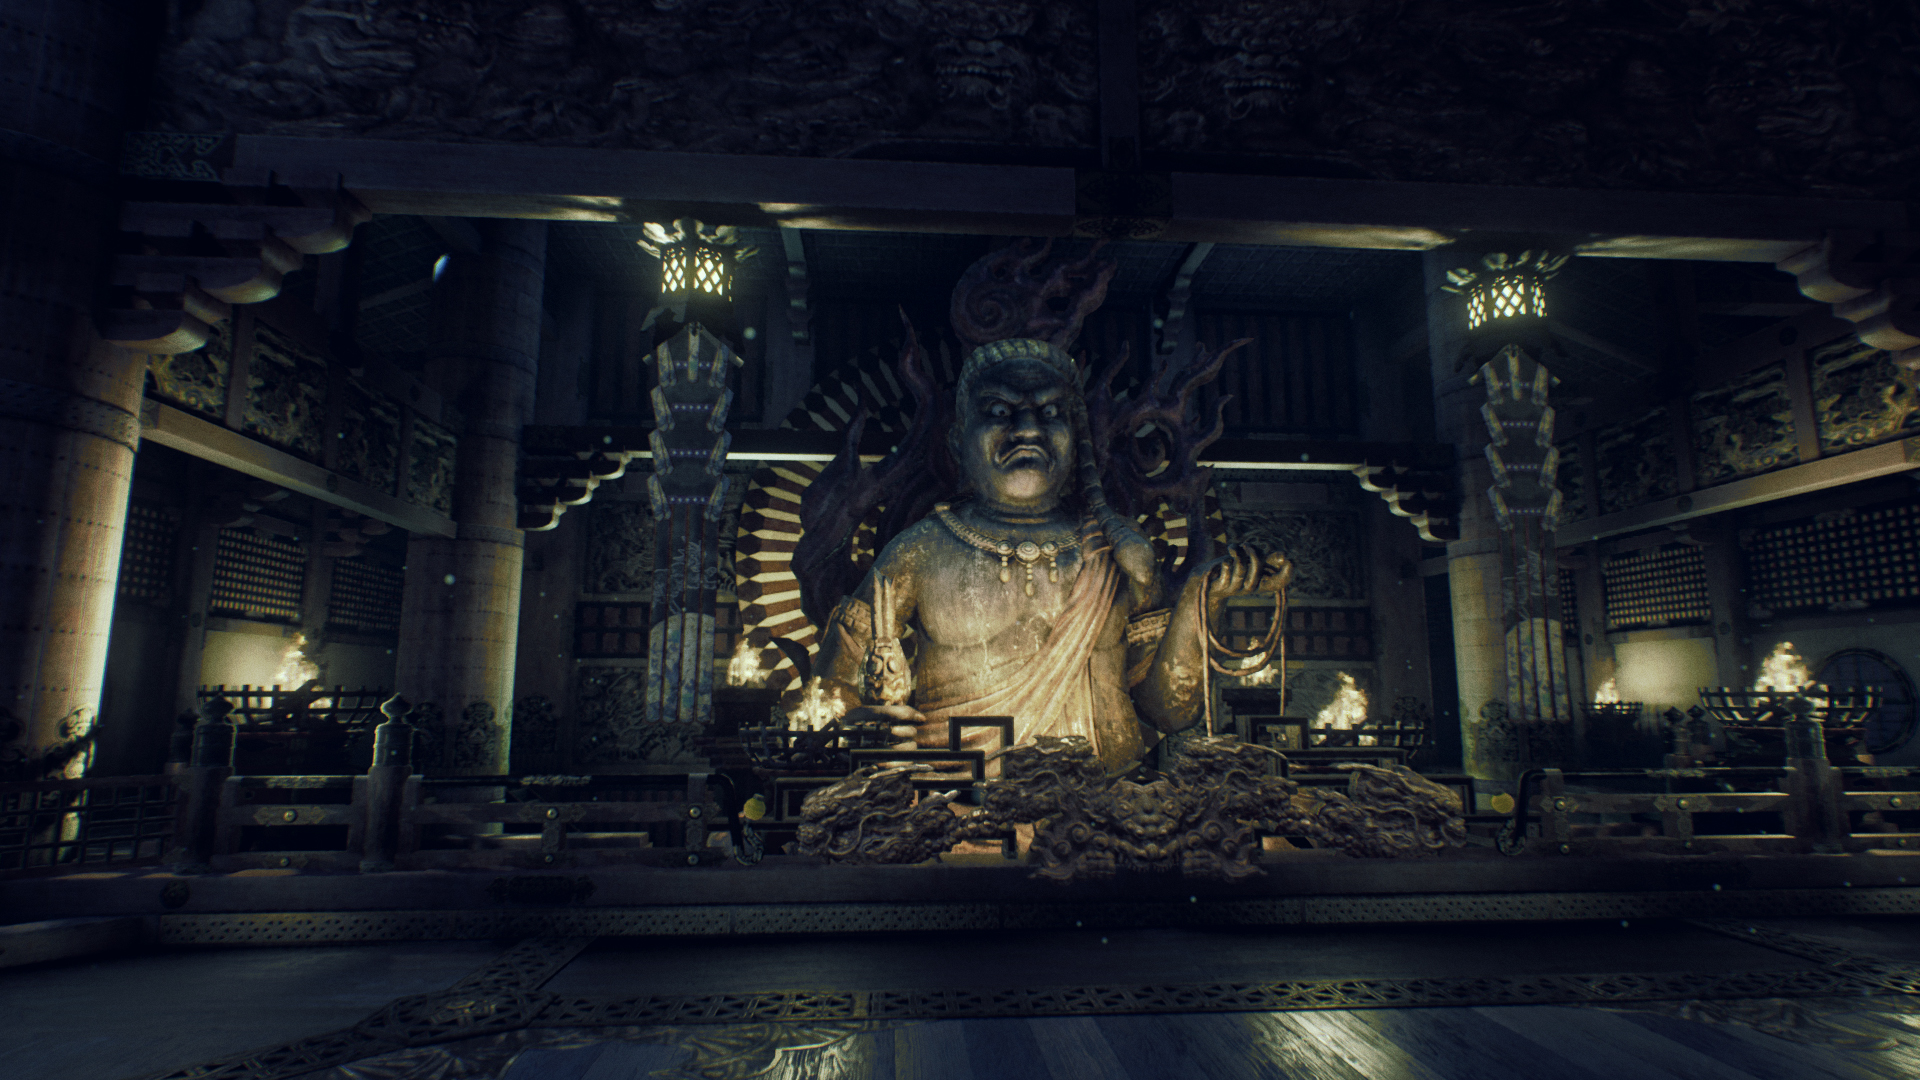
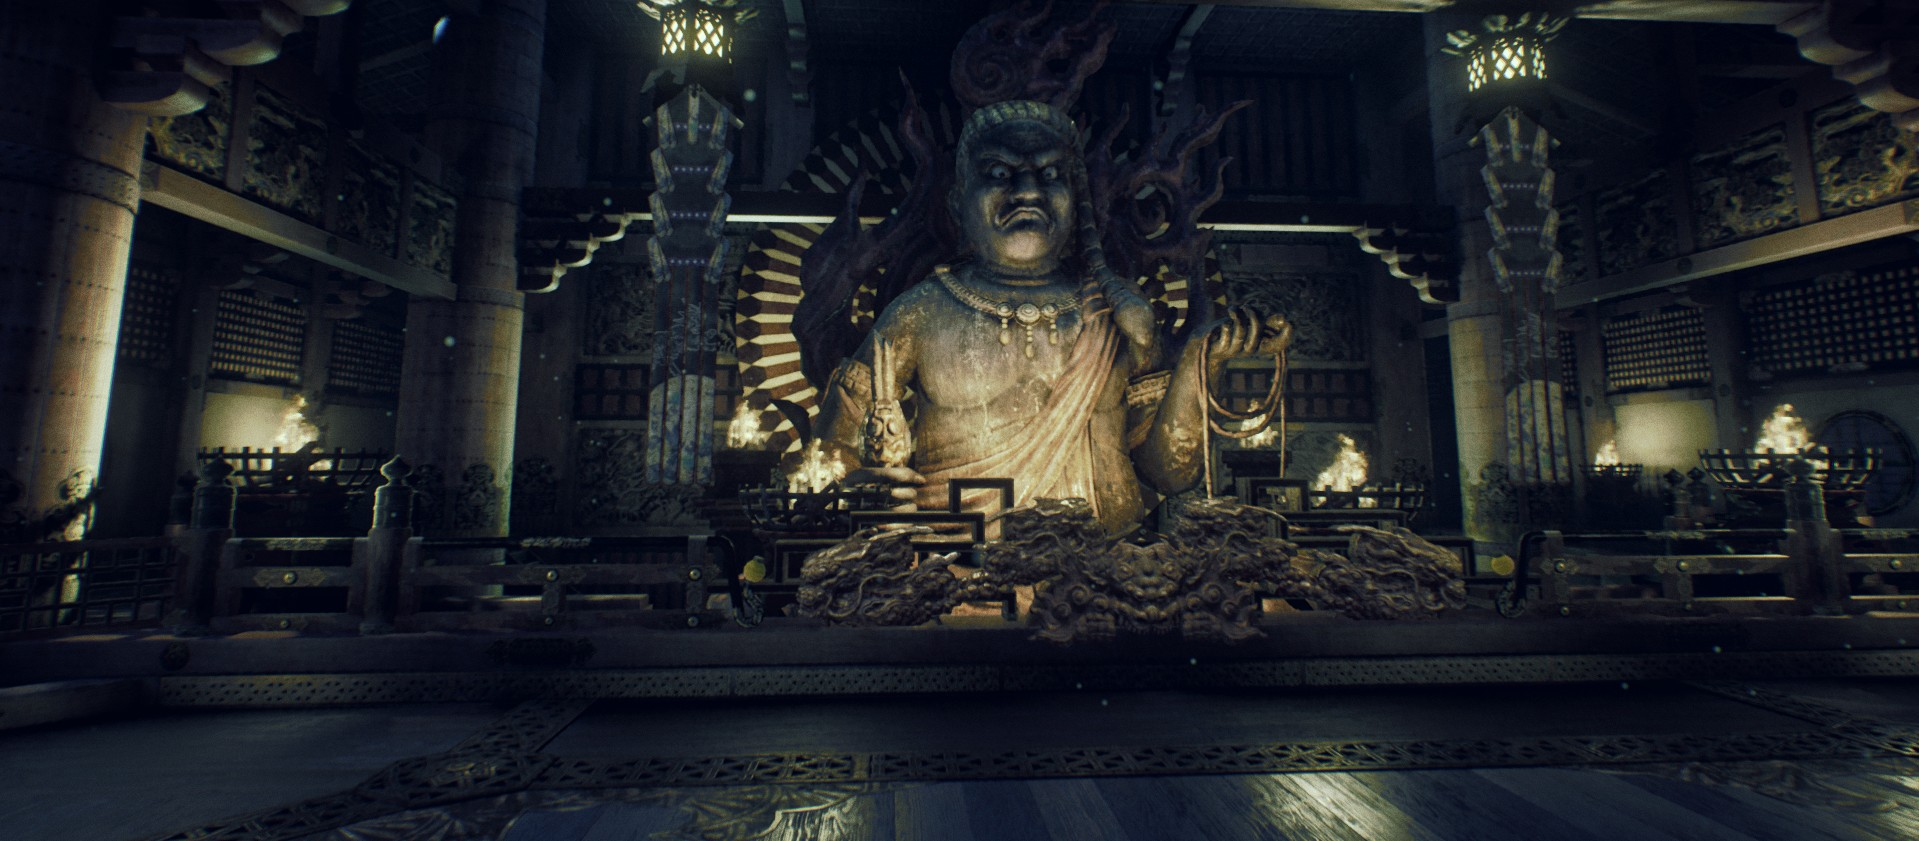
Tweak main page to make images fit better

diff --git a/app/assets/stylesheets/main_page.css b/app/assets/stylesheets/main_page.css
@@ -2,7 +2,7 @@
     display: flex;
     flex-direction: column;
     align-items: center;
-    height: 550px;
+    height: 400px;
     justify-content: center;
     overflow: hidden;
 }
@@ -49,11 +49,13 @@
 /* slideshow */
 
 .slide-fade{
-    height: 560px;
+    height: 610px;
     width: 100%;
     z-index: -2;
     background-repeat: no-repeat;
     background-size: cover;
+    animation: fadein 15s ease-in infinite;
+
 }
 
 #five{
@@ -76,6 +78,21 @@
     background-image: url(./Battlefield.png);
 }
 
+@keyframes fadein {
+    0%{
+        opacity: 0;
+    }
+    7%{
+        opacity: 1;
+    }
+    92%{
+        opacity:1;
+    }
+    100%{
+        opacity:0;
+    }
+}
+
 
 @keyframes slide{
     0%{
@@ -93,6 +110,6 @@
     z-index: -1;
     height: 630px;
     width: 150%;
-    animation: slide 15s;
+    animation: slide 15s linear;
     animation-iteration-count: infinite;
 }
